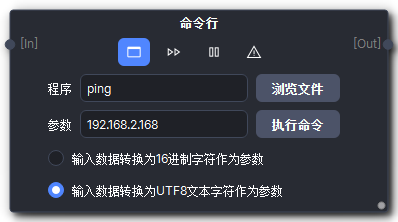
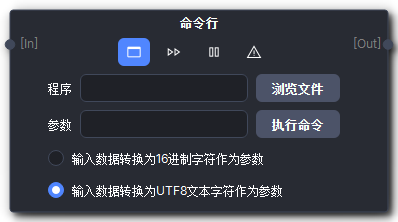
chore: update the file

Changed region(s): [[0.2111, 0.5405, 0.4221, 0.5946], [0.2111, 0.3784, 0.3015, 0.4324], [0.9347, 0.8919, 0.9648, 0.9459]]

diff --git a/docs/docs/4.nodes/4.4scripts.md b/docs/docs/4.nodes/4.4scripts.md
@@ -3,4 +3,11 @@ title: 执行脚本
 nav_order: 4.4
 ---
 
-# 快速开始
+## 执行脚本
+
+{: .note }
+> 脚本节点为用户提供灵活的数据处理扩展。
+
+![命令行]({{ site.baseurl }}/assets/images/命令行.png#pic_center)
+![Lua脚本]({{ site.baseurl }}/assets/images/Lua脚本.png#pic_center)
+![JavaScript]({{ site.baseurl }}/assets/images/JavaScript.png#pic_center)

diff --git a/docs/docs/4.nodes/4.4.2javascript.md b/docs/docs/4.nodes/4.4.2javascript.md
@@ -4,4 +4,9 @@ parent: 执行脚本
 nav_order: 4.42
 ---
 
-# 快速开始
+## JavaScript
+
+{: .note }
+> AES密码器节点主要功能是对数据进行AES加密和解密。
+
+![JavaScript]({{ site.baseurl }}/assets/images/JavaScript.png#pic_center)

diff --git a/docs/docs/4.nodes/4.4.1commandline.md b/docs/docs/4.nodes/4.4.1commandline.md
@@ -4,4 +4,9 @@ parent: 执行脚本
 nav_order: 4.41
 ---
 
-# 快速开始
+## 命令行
+
+{: .note }
+> AES密码器节点主要功能是对数据进行AES加密和解密。
+
+![命令行]({{ site.baseurl }}/assets/images/命令行.png#pic_center)

diff --git a/docs/docs/4.nodes/4.4.3luascript.md b/docs/docs/4.nodes/4.4.3luascript.md
@@ -4,4 +4,9 @@ parent: 执行脚本
 nav_order: 4.43
 ---
 
-# 快速开始
+## Lua脚本
+
+{: .note }
+> AES密码器节点主要功能是对数据进行AES加密和解密。
+
+![Lua脚本]({{ site.baseurl }}/assets/images/Lua脚本.png#pic_center)
